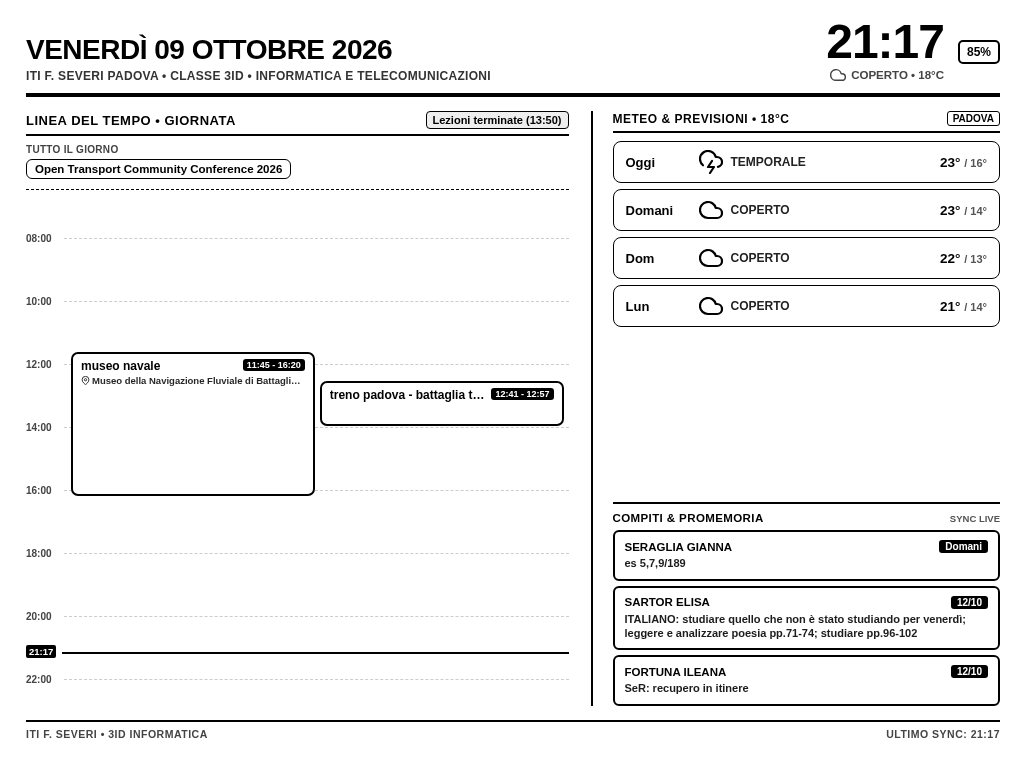
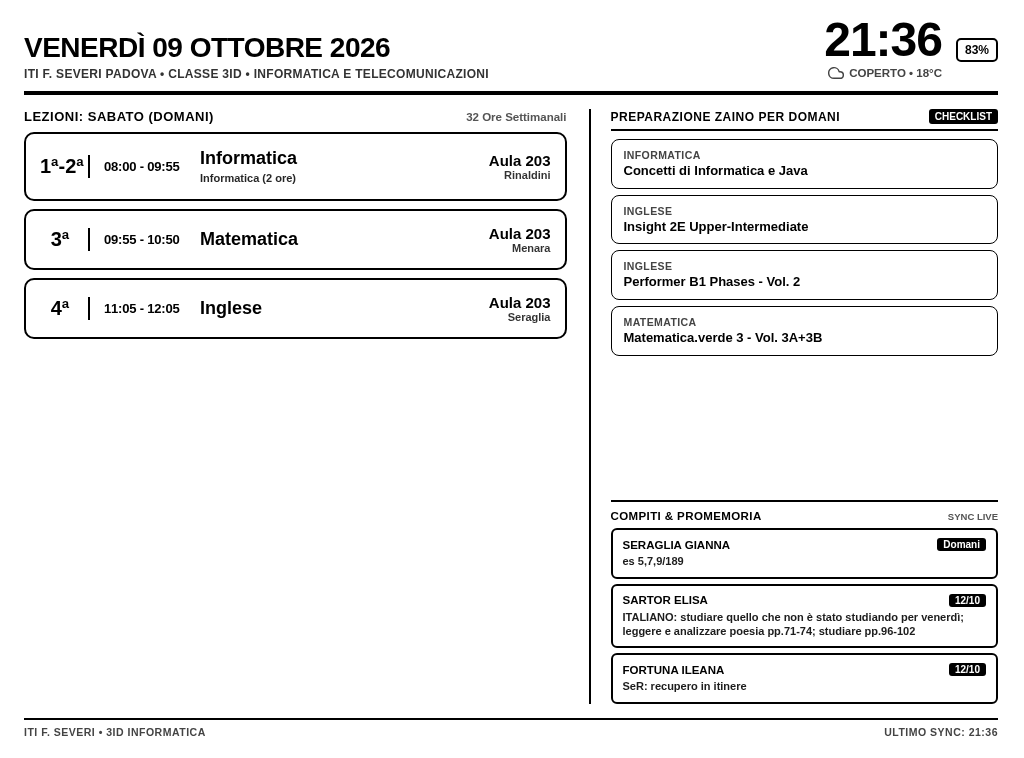
feat(calendar): unione ibrida CalDAV e feed sottoscrizioni con supporto Formula 1

diff --git a/server.py b/server.py
@@ -379,7 +379,8 @@ _CALDAV_CLIENT = None
 _CALDAV_CALENDARS = []
 _CALDAV_CALENDARS_TS = None
 _CALDAV_CACHE = {"timestamp": None, "date_str": None, "data": []}
-_CALDAV_CACHE_BY_DATE = {}
+_RAW_CALDAV_CACHE_BY_DATE = {}
+_MERGED_CACHE_BY_DATE = {}
 _CALDAV_CACHE_FILE = "/tmp/caldav_events_cache.json"
 
 def get_caldav_client_and_calendars(username, password):
@@ -409,12 +410,12 @@ def get_caldav_client_and_calendars(username, password):
         return _CALDAV_CLIENT, _CALDAV_CALENDARS
 
 def fetch_caldav_events_direct(caldav_user, caldav_pwd, target_date):
-    global _CALDAV_CACHE, _CALDAV_CACHE_BY_DATE
+    global _CALDAV_CACHE, _RAW_CALDAV_CACHE_BY_DATE
     now = datetime.now()
     date_str = target_date.strftime("%Y-%m-%d")
     _, calendars = get_caldav_client_and_calendars(caldav_user, caldav_pwd)
     if not calendars:
-        return _CALDAV_CACHE_BY_DATE.get(date_str, {}).get("data", _CALDAV_CACHE["data"] if _CALDAV_CACHE["data"] else [])
+        return _RAW_CALDAV_CACHE_BY_DATE.get(date_str, {}).get("data", _CALDAV_CACHE["data"] if _CALDAV_CACHE["data"] else [])
 
     window_days = 4
     # Query CalDAV estesa a 14 giorni prima per intercettare conferenze ed eventi multi-giorno iniziati prima
@@ -517,7 +518,7 @@ def fetch_caldav_events_direct(caldav_user, caldav_pwd, target_date):
 
     for d_k, ev_list in events_by_date.items():
         ev_list.sort(key=sort_key)
-        _CALDAV_CACHE_BY_DATE[d_k] = {"timestamp": now, "data": ev_list}
+        _RAW_CALDAV_CACHE_BY_DATE[d_k] = {"timestamp": now, "data": ev_list}
 
     target_events = events_by_date.get(date_str, [])
     _CALDAV_CACHE["timestamp"] = now
@@ -530,8 +531,122 @@ def fetch_caldav_events_direct(caldav_user, caldav_pwd, target_date):
         pass
     return target_events
 
+def clean_f1_summary(summ):
+    if not summ:
+        return ""
+    if "FORMULA 1" in summ.upper() and " - " in summ:
+        parts = summ.split(" - ")
+        session = parts[-1].strip()
+        gp_match = re.search(r"([A-Za-z\s]+)\s+GRAND PRIX", parts[0], re.IGNORECASE)
+        gp_name = ""
+        if gp_match:
+            words = [w for w in gp_match.group(1).split() if w.upper() not in ["FORMULA", "1", "HEINEKEN", "AIRWAYS", "CRUISES", "GULF", "AIR", "AIRLINES", "MSC", "AIRLINE", "PETRONAS", "QATAR"]]
+            if words:
+                gp_name = " ".join(dict.fromkeys(words)).title()
+        if gp_name:
+            return f"F1 {gp_name} • {session}"
+        return f"F1 • {session}"
+    return summ
+
+def extract_ical_dt(line):
+    parts = line.split(":", 1)
+    if len(parts) == 2:
+        return parts[1].strip()
+    parts = line.split(";", 1)
+    if len(parts) == 2:
+        return parts[1].strip()
+    return line.strip()
+
+def parse_ics_events(content, target_date):
+    if not content:
+        return []
+    target_str = target_date.strftime("%Y%m%d")
+    events = []
+    seen = set()
+    cur = {}
+    for line in content.splitlines():
+        line = line.strip()
+        if line.startswith("BEGIN:VEVENT"):
+            cur = {}
+        elif line.startswith("SUMMARY:"):
+            cur["summary"] = line[8:].strip()
+        elif line.startswith("DTSTART"):
+            cur["start_raw"] = extract_ical_dt(line)
+        elif line.startswith("DTEND"):
+            cur["end_raw"] = extract_ical_dt(line)
+        elif line.startswith("LOCATION:"):
+            cur["location"] = line[9:].strip()
+        elif line.startswith("DESCRIPTION:"):
+            cur["desc"] = line[12:].strip()
+        elif line.startswith("END:VEVENT"):
+            start = cur.get("start_raw", "")
+            end = cur.get("end_raw", "")
+            raw_summ = strip_emojis(cur.get("summary", ""))
+            summ = clean_f1_summary(raw_summ)
+            loc = strip_emojis(cur.get("location", ""))
+            desc = strip_emojis(cur.get("desc", ""))
+
+            if start:
+                is_allday = "T" not in start
+                s_d_str = start[:8]
+                e_d_str = end[:8] if end else s_d_str
+
+                if is_allday:
+                    if e_d_str > s_d_str:
+                        matches = (s_d_str <= target_str < e_d_str)
+                    else:
+                        matches = (s_d_str == target_str)
+                    if matches:
+                        dedup_key = (raw_summ.lower(), "Tutto il giorno")
+                        if dedup_key not in seen:
+                            seen.add(dedup_key)
+                            events.append({
+                                "summary": summ,
+                                "raw_summary": raw_summ,
+                                "location": loc,
+                                "desc": desc,
+                                "is_allday": True,
+                                "start_min": 0,
+                                "end_min": 24 * 60,
+                                "ora": "Tutto il giorno",
+                                "ora_fine": ""
+                            })
+                else:
+                    if s_d_str <= target_str <= e_d_str:
+                        if s_d_str == target_str and len(start) >= 13:
+                            sh, sm = int(start[9:11]), int(start[11:13])
+                            start_min = sh * 60 + sm
+                            ora_fmt = f"{sh:02d}:{sm:02d}"
+                        else:
+                            start_min = 0
+                            ora_fmt = "00:00"
+
+                        if e_d_str == target_str and len(end) >= 13:
+                            eh, em = int(end[9:11]), int(end[11:13])
+                            end_min = eh * 60 + em
+                            ora_fine_fmt = f"{eh:02d}:{em:02d}"
+                        else:
+                            end_min = 24 * 60
+                            ora_fine_fmt = "24:00"
+
+                        dedup_key = (raw_summ.lower(), ora_fmt)
+                        if dedup_key not in seen:
+                            seen.add(dedup_key)
+                            events.append({
+                                "summary": summ,
+                                "raw_summary": raw_summ,
+                                "location": loc,
+                                "desc": desc,
+                                "is_allday": False,
+                                "start_min": start_min,
+                                "end_min": end_min,
+                                "ora": ora_fmt,
+                                "ora_fine": ora_fine_fmt
+                            })
+    return events
+
 def get_icloud_events(env, target_date=None, force_refresh=False, mock_events=False):
-    global _CALDAV_CACHE, _CALDAV_CACHE_BY_DATE
+    global _CALDAV_CACHE, _RAW_CALDAV_CACHE_BY_DATE, _MERGED_CACHE_BY_DATE
     now = datetime.now()
     if target_date is None:
         target_date = now.date()
@@ -557,53 +672,49 @@ def get_icloud_events(env, target_date=None, force_refresh=False, mock_events=Fa
         }
         return mock_data.get(date_str, [])
 
-    # Carica da cache disco se la memoria è vuota
-    if not _CALDAV_CACHE["timestamp"] and os.path.exists(_CALDAV_CACHE_FILE):
-        try:
-            with open(_CALDAV_CACHE_FILE, "r", encoding="utf-8") as f:
-                saved = json.load(f)
-                _CALDAV_CACHE["timestamp"] = datetime.fromisoformat(saved.get("timestamp"))
-                _CALDAV_CACHE["date_str"] = saved.get("date_str")
-                _CALDAV_CACHE["data"] = saved.get("data", [])
-                if saved.get("date_str"):
-                    _CALDAV_CACHE_BY_DATE[saved["date_str"]] = {"timestamp": _CALDAV_CACHE["timestamp"], "data": _CALDAV_CACHE["data"]}
-        except Exception:
-            pass
+    # Cache di 45 secondi sui risultati unificati
+    if not force_refresh and date_str in _MERGED_CACHE_BY_DATE:
+        entry = _MERGED_CACHE_BY_DATE[date_str]
+        if (now - entry["timestamp"]).total_seconds() < 45:
+            return entry["data"]
 
+    # 1. SINCRONIZZAZIONE DIRETTA CALDAV (REAL-TIME SERVER-TO-APPLE)
+    caldav_events = []
     caldav_user = env.get("ICLOUD_APPLE_ID", "").strip()
     caldav_pwd = env.get("ICLOUD_APP_PASSWORD", "").strip()
-
-    # 1. SINCRONIZZAZIONE DIRETTA CALDAV (REAL-TIME SERVER-TO-APPLE, ZERO MAC)
     if caldav_user and caldav_pwd:
         if force_refresh:
             _CALDAV_CACHE["timestamp"] = None
-            if date_str in _CALDAV_CACHE_BY_DATE:
-                del _CALDAV_CACHE_BY_DATE[date_str]
+            if date_str in _RAW_CALDAV_CACHE_BY_DATE:
+                del _RAW_CALDAV_CACHE_BY_DATE[date_str]
+            if date_str in _MERGED_CACHE_BY_DATE:
+                del _MERGED_CACHE_BY_DATE[date_str]
 
-        # Cache di 45 secondi per la specifica data (risposta istantanea e supporto multi-giorno)
-        if not force_refresh and date_str in _CALDAV_CACHE_BY_DATE:
-            entry = _CALDAV_CACHE_BY_DATE[date_str]
+        # Controlla cache CalDAV raw prima di risollecitare la rete
+        if not force_refresh and date_str in _RAW_CALDAV_CACHE_BY_DATE:
+            entry = _RAW_CALDAV_CACHE_BY_DATE[date_str]
             if (now - entry["timestamp"]).total_seconds() < 45:
-                return entry["data"]
+                caldav_events = entry["data"]
 
-        if _CALDAV_CACHE["timestamp"] and _CALDAV_CACHE["date_str"] == date_str:
-            if (now - _CALDAV_CACHE["timestamp"]).total_seconds() < 45:
-                return _CALDAV_CACHE["data"]
+        if not caldav_events:
+            try:
+                caldav_events = fetch_caldav_events_direct(caldav_user, caldav_pwd, target_date)
+            except Exception as e:
+                print("CalDAV fetch error (fallback to cache):", e)
+                if date_str in _RAW_CALDAV_CACHE_BY_DATE:
+                    caldav_events = _RAW_CALDAV_CACHE_BY_DATE[date_str].get("data", [])
+                elif _CALDAV_CACHE.get("data"):
+                    caldav_events = _CALDAV_CACHE["data"]
 
-        try:
-            return fetch_caldav_events_direct(caldav_user, caldav_pwd, target_date)
-        except Exception as e:
-            print("CalDAV fetch error (fallback to cache):", e)
-            if date_str in _CALDAV_CACHE_BY_DATE:
-                return _CALDAV_CACHE_BY_DATE[date_str]["data"]
-            if _CALDAV_CACHE["data"]:
-                return _CALDAV_CACHE["data"]
-
-    # 2. FALLBACK SU URL FEED ICAL O FILE LOCALE
+    # 2. FEED ICAL LOCALE O URL (PER SOTTOSCRIZIONI COME FORMULA 1 E FEED ESTERNI)
+    ics_events = []
+    local_ics = "/opt/kindleCalendar/calendar_feed.ics"
+    if not os.path.exists(local_ics):
+        local_ics = os.path.join(os.path.dirname(os.path.abspath(__file__)), "calendar_feed.ics")
     url = env.get("ICLOUD_ICAL_URL", "").strip()
     content = ""
-    local_ics = "/opt/kindleCalendar/calendar_feed.ics"
-    if not url and os.path.exists(local_ics):
+
+    if os.path.exists(local_ics):
         try:
             with open(local_ics, "r", encoding="utf-8", errors="ignore") as f:
                 content = f.read()
@@ -626,101 +737,39 @@ def get_icloud_events(env, target_date=None, force_refresh=False, mock_events=Fa
                 content = resp.read().decode("utf-8", errors="ignore")
         except Exception as e:
             print("iCloud sync error:", e)
-            return []
 
-    if not content:
-        return []
+    if content:
+        ics_events = parse_ics_events(content, target_date)
 
+    # 3. MERGE & DEDUPLICAZIONE (CALDAV PREVALE, ICS AGGIUNGE F1 E ALTRI SOTTOSCRITTI)
+    merged = []
+    seen = set()
+
+    for ev in caldav_events:
+        ev["summary"] = clean_f1_summary(ev.get("summary", ""))
+        key = (ev["summary"].strip().lower(), ev.get("ora", ""))
+        if key not in seen:
+            seen.add(key)
+            merged.append(ev)
+
+    for ev in ics_events:
+        key = (ev["summary"].strip().lower(), ev.get("ora", ""))
+        raw_key = (ev.get("raw_summary", ev["summary"]).strip().lower(), ev.get("ora", ""))
+        if key not in seen and raw_key not in seen:
+            seen.add(key)
+            merged.append(ev)
+
+    def sort_key(ev):
+        return (0, 0) if ev.get("is_allday") else (1, ev.get("start_min", 0))
+
+    merged.sort(key=sort_key)
+    _MERGED_CACHE_BY_DATE[date_str] = {"timestamp": now, "data": merged}
     try:
-        events = []
-        seen = set()
-        cur = {}
-        for line in content.splitlines():
-            line = line.strip()
-            if line.startswith("BEGIN:VEVENT"):
-                cur = {}
-            elif line.startswith("SUMMARY:"):
-                cur["summary"] = line[8:].strip()
-            elif line.startswith("DTSTART"):
-                cur["start_raw"] = line.split(":")[-1].strip()
-            elif line.startswith("DTEND"):
-                cur["end_raw"] = line.split(":")[-1].strip()
-            elif line.startswith("LOCATION:"):
-                cur["location"] = line[9:].strip()
-            elif line.startswith("DESCRIPTION:"):
-                cur["desc"] = line[12:].strip()
-            elif line.startswith("END:VEVENT"):
-                target_str = target_date.strftime("%Y%m%d")
-                start = cur.get("start_raw", "")
-                end = cur.get("end_raw", "")
-                summ = strip_emojis(cur.get("summary", ""))
-                cur["summary"] = summ
-                cur["location"] = strip_emojis(cur.get("location", ""))
-                cur["desc"] = strip_emojis(cur.get("desc", ""))
-
-                if start:
-                    is_allday = "T" not in start
-                    s_d_str = start[:8]
-                    e_d_str = end[:8] if end else s_d_str
-
-                    if is_allday:
-                        if e_d_str > s_d_str:
-                            matches = (s_d_str <= target_str < e_d_str)
-                        else:
-                            matches = (s_d_str == target_str)
-                        if matches:
-                            dedup_key = (summ.lower(), "Tutto il giorno")
-                            if dedup_key not in seen:
-                                seen.add(dedup_key)
-                                events.append({
-                                    "summary": summ,
-                                    "location": cur["location"],
-                                    "desc": cur["desc"],
-                                    "is_allday": True,
-                                    "start_min": 0,
-                                    "end_min": 24 * 60,
-                                    "ora": "Tutto il giorno",
-                                    "ora_fine": ""
-                                })
-                    else:
-                        if s_d_str <= target_str <= e_d_str:
-                            if s_d_str == target_str and len(start) >= 13:
-                                sh, sm = int(start[9:11]), int(start[11:13])
-                                start_min = sh * 60 + sm
-                                ora_fmt = f"{sh:02d}:{sm:02d}"
-                            else:
-                                start_min = 0
-                                ora_fmt = "00:00"
-
-                            if e_d_str == target_str and len(end) >= 13:
-                                eh, em = int(end[9:11]), int(end[11:13])
-                                end_min = eh * 60 + em
-                                ora_fine_fmt = f"{eh:02d}:{em:02d}"
-                            else:
-                                end_min = 24 * 60
-                                ora_fine_fmt = "24:00"
-
-                            dedup_key = (summ.lower(), ora_fmt)
-                            if dedup_key not in seen:
-                                seen.add(dedup_key)
-                                events.append({
-                                    "summary": summ,
-                                    "location": cur["location"],
-                                    "desc": cur["desc"],
-                                    "is_allday": False,
-                                    "start_min": start_min,
-                                    "end_min": end_min,
-                                    "ora": ora_fmt,
-                                    "ora_fine": ora_fine_fmt
-                                })
-
-        def sort_key(ev):
-            return (1, 0) if ev.get("is_allday") else (0, ev.get("start_min", 0))
-        events.sort(key=sort_key)
-        return events
-    except Exception as e:
-        print("iCloud sync error:", e)
-        return []
+        with open(_CALDAV_CACHE_FILE, "w", encoding="utf-8") as f:
+            json.dump({"timestamp": now.isoformat(), "date_str": date_str, "data": merged}, f, ensure_ascii=False)
+    except Exception:
+        pass
+    return merged
 
 _CV_CACHE = {"timestamp": None, "data": []}
 _CV_CACHE_FILE = "/tmp/classeviva_cache.json"

diff --git a/macos_sync/sync_calendar.py b/macos_sync/sync_calendar.py
@@ -63,8 +63,12 @@ def generate_feed():
         lines.append("BEGIN:VEVENT")
         lines.append(f"UID:{uid}")
         lines.append(f"DTSTAMP:{now_utc}")
-        lines.append(f"DTSTART;{to_ical_dt(sdate, is_allday)}")
-        lines.append(f"DTEND;{to_ical_dt(edate, is_allday)}")
+        if is_allday:
+            lines.append(f"DTSTART;{to_ical_dt(sdate, is_allday)}")
+            lines.append(f"DTEND;{to_ical_dt(edate, is_allday)}")
+        else:
+            lines.append(f"DTSTART:{to_ical_dt(sdate, is_allday)}")
+            lines.append(f"DTEND:{to_ical_dt(edate, is_allday)}")
         lines.append(f"SUMMARY:{clean_summ}")
         if loc:
             lines.append(f"LOCATION:{loc}")
